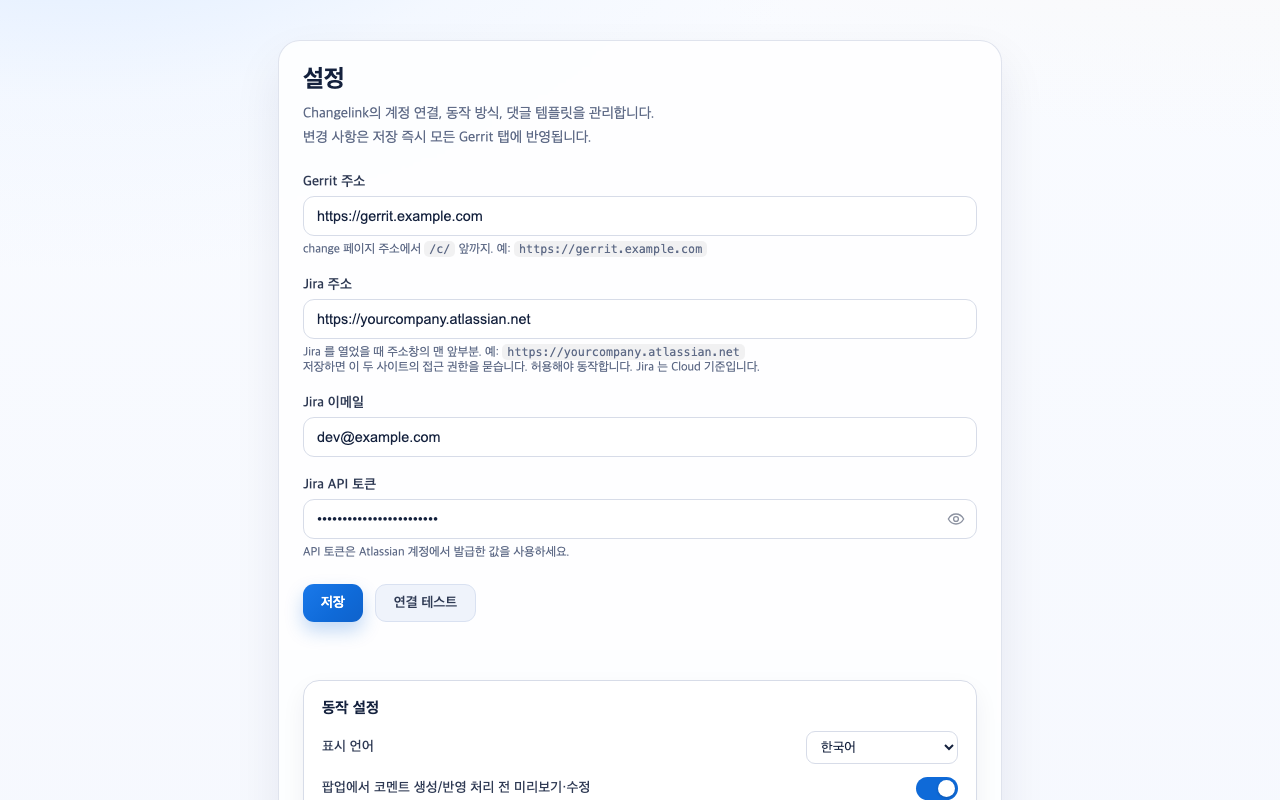
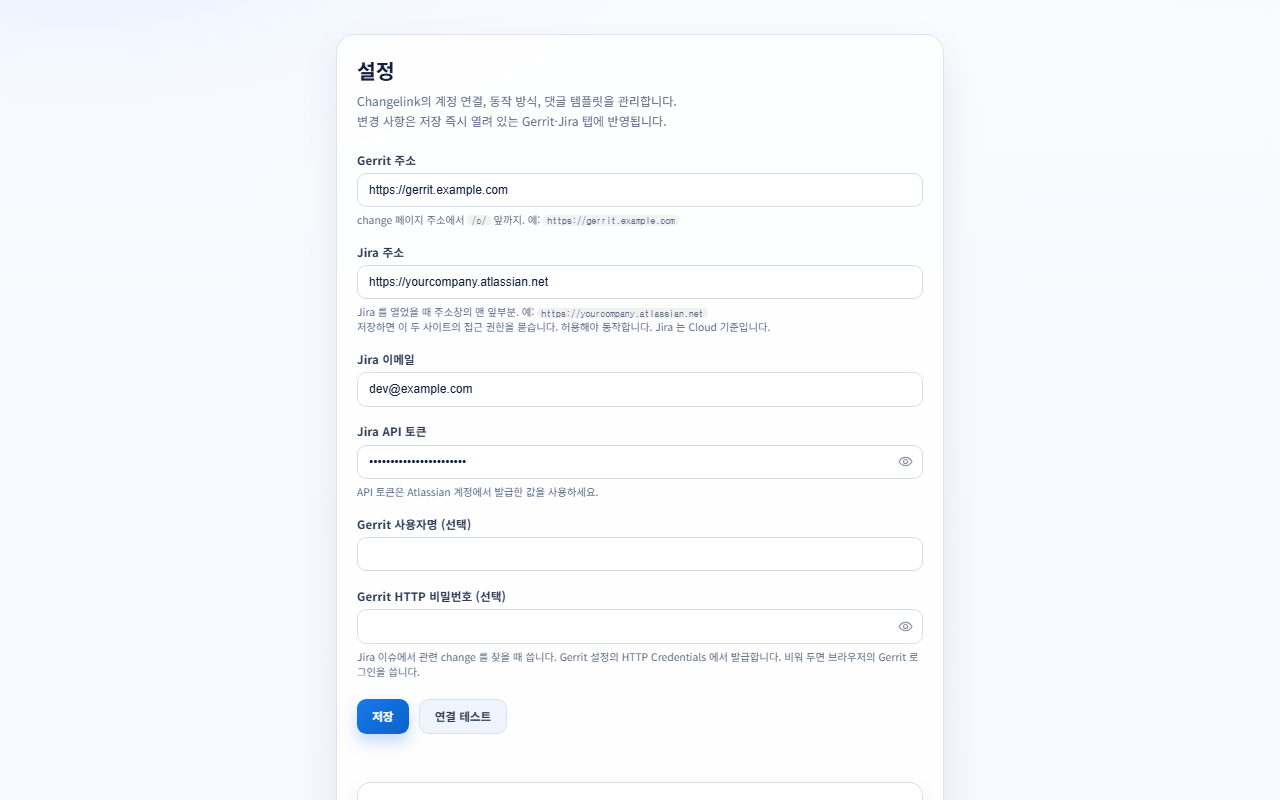
docs: 스토어 스크린샷을 1.6.0 화면으로 다시 찍고 Jira 쪽 2장 추가
기존 스크린샷은 FAB 가 'Jira' 글자 버튼이고 설정 페이지에 없어진 배지 옵션이 보이는
1.5.x 화면이었다.

- 5장(Gerrit 팝업, Gerrit FAB 메뉴, Jira 팝업, Jira 목록 다이얼로그, 설정)을 한/영으로.
  페이지는 예시 데이터 목업이고, 팝업·FAB·설정은 실제 확장 코드를 chrome API 목업 위에서
  띄워 헤드리스 Chrome 으로 1280x800 에 찍었다
- store-assets/ 는 PNG(README 용), upload/ 는 스토어 업로드용 JPG
- README 기능 목록 아래에 Jira 팝업 스크린샷

diff --git a/README.ko.md b/README.ko.md
@@ -31,6 +31,10 @@ change 하나 리뷰 끝내고 Jira 로 넘어가서 링크 붙이고 코멘트 
 - change 페이지에 끌어서 옮길 수 있는 빠른 실행 버튼. 버튼 구성은 설정에서 고름
 - Jira 이슈 페이지에서는 커밋 메시지에 그 이슈키가 들어간 Gerrit change 목록을 팝업이나 빠른 실행 버튼으로 보여줌
 
+<p align="center">
+  <img src="store-assets/screenshot-jira-browser-ko.png" width="820" alt="Jira 이슈 페이지에서 연 팝업의 관련 Gerrit change 목록">
+</p>
+
 ## 설치
 
 **Chrome 웹스토어:** [Changelink for Gerrit and Jira Cloud](https://chromewebstore.google.com/detail/jebbalmncnfhgcfgpkomacgmelhbfdcl)

diff --git a/README.md b/README.md
@@ -32,6 +32,10 @@ directly from the extension. There is no server in between, and no account to si
 - Puts a draggable quick action button on the change page, with the buttons you pick
 - On a Jira issue, lists the Gerrit changes whose commit message mentions it, from the popup or the quick action button
 
+<p align="center">
+  <img src="store-assets/screenshot-jira-browser.png" width="820" alt="Related Gerrit changes in the popup on a Jira issue page">
+</p>
+
 ## Install
 
 **From the Chrome Web Store:** [Changelink for Gerrit and Jira Cloud](https://chromewebstore.google.com/detail/jebbalmncnfhgcfgpkomacgmelhbfdcl)
